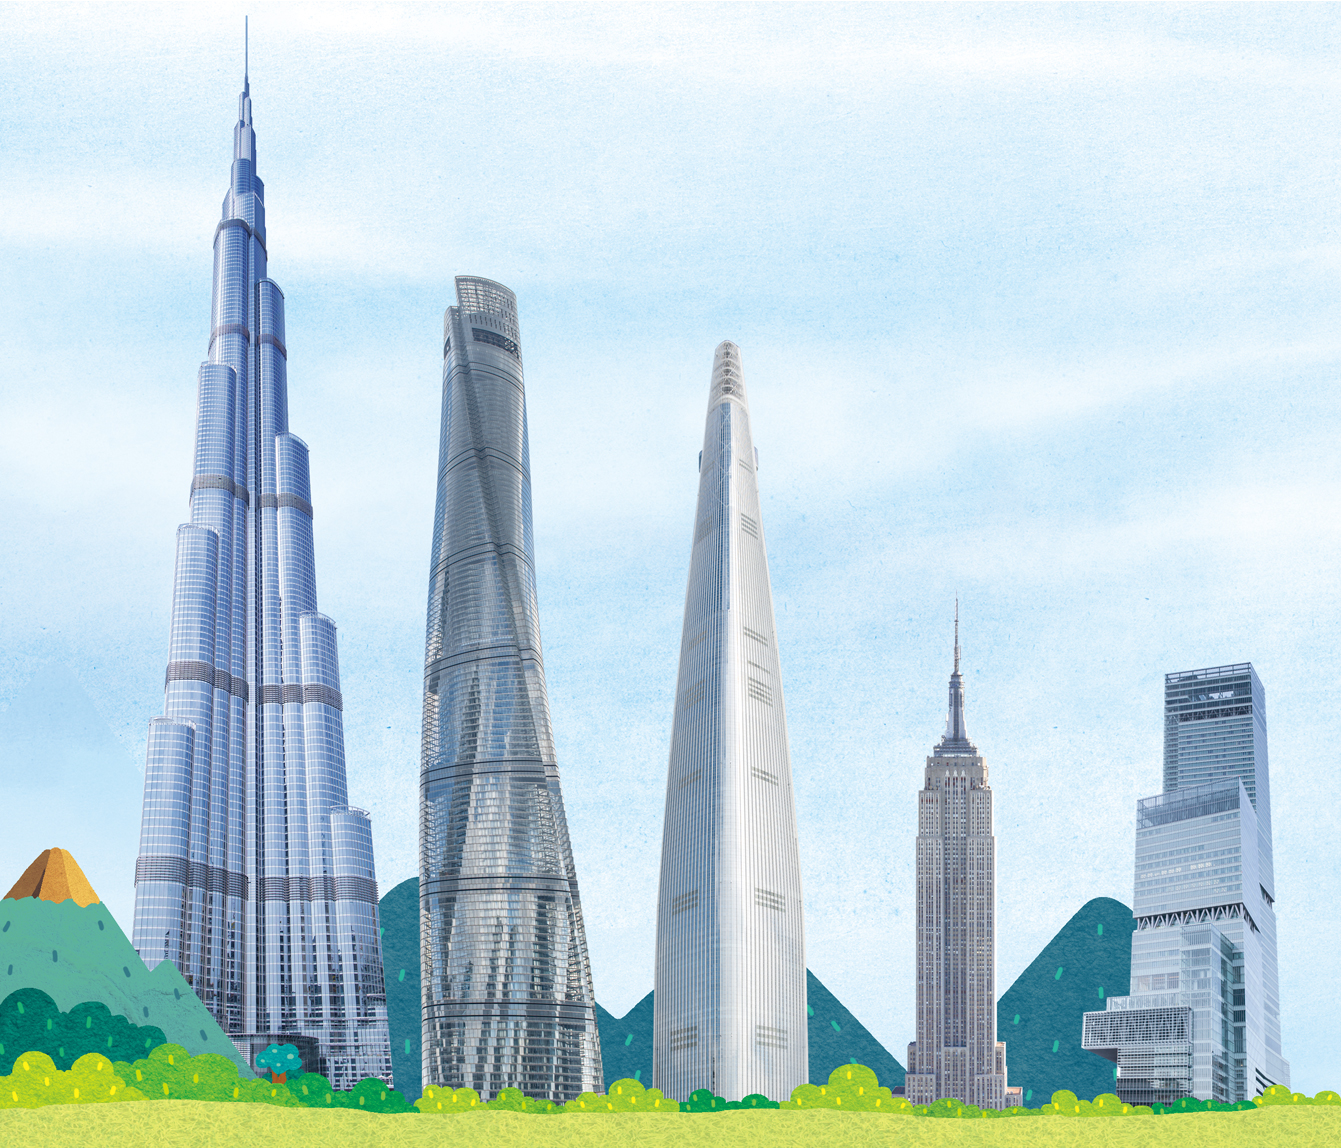
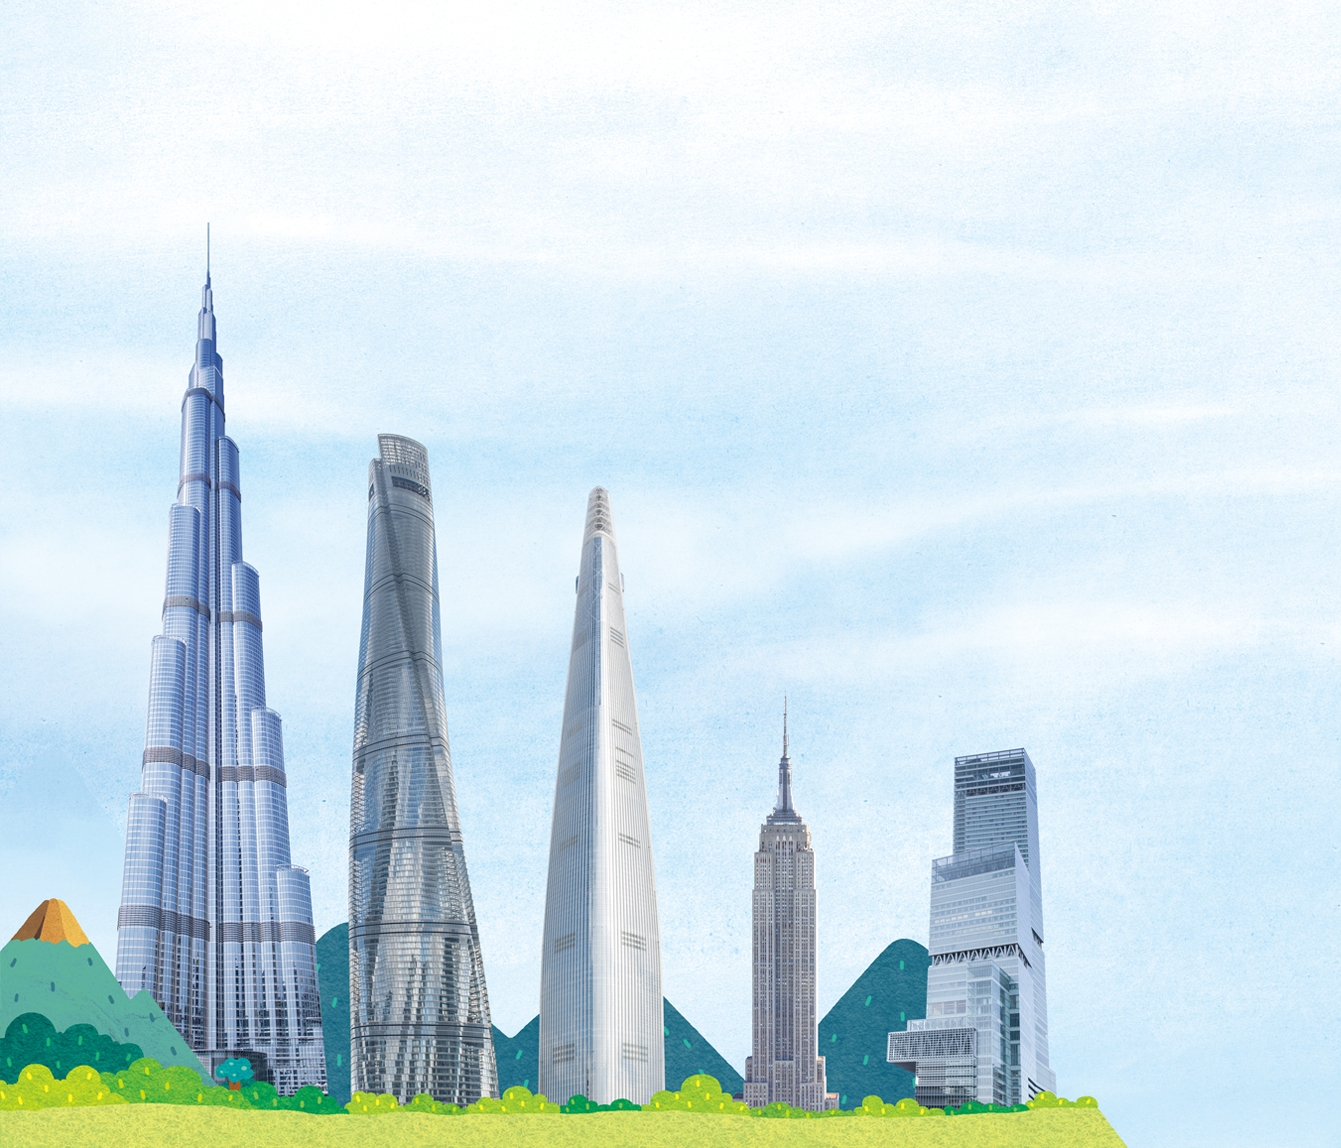
이미지 수정

diff --git a/E-curri03-math-P_2022/31/suh_p_0301_01_0010/suh_p_0301_01_0010_203_1.html b/E-curri03-math-P_2022/31/suh_p_0301_01_0010/suh_p_0301_01_0010_203_1.html
@@ -113,7 +113,7 @@
 				<ul class="basicSlider_slides" data-slides="">
 					<li class="page_1">
 						<div class="img-wrap ">
-							<img src="./images/suh_p_0301_01_0010_201_1_1.png" alt="">
+							<img src="./images/suh_p_0301_01_0010_203_1/suh_p_0301_01_0010_203_1_1.jpg" alt="">
 							<div class="text n1">
 								부르즈 할리파<br>
 								아랍 에미리트<br>
@@ -192,7 +192,7 @@
 				<li class="whole pop_page_1" data-popup-page="1">
 					<div class="popup_contents">
 						<div class="img-wrap">
-							<img src="./images/suh_p_0301_01_0010_201_1_1.png" alt="">
+							<img src="./images/suh_p_0301_01_0010_203_1/suh_p_0301_01_0010_203_1_1.jpg" alt="">
 							<div class="text n1">
 								부르즈 할리파<br>
 								아랍 에미리트<br>

diff --git a/E-curri03-math-P_2022/31/suh_p_0301_01_0010/suh_p_0301_01_0010_201_1.html b/E-curri03-math-P_2022/31/suh_p_0301_01_0010/suh_p_0301_01_0010_201_1.html
@@ -79,7 +79,7 @@
                 <li class="whole pop_page_1" data-popup-page="1">
                     <div class="popup_contents">
                         <div class="img-wrap">
-                            <img src="./images/suh_p_0301_01_0010_201_1_1.png" alt="">
+                            <img src="./images/suh_p_0301_01_0010_203_1/suh_p_0301_01_0010_203_1_1.jpg" alt="">
                             <div class="text n1">
                                 부르즈 할리파<br>
                                 아랍 에미리트<br>

diff --git a/E-curri03-math-P_2022/31/suh_p_0301_01_0010/suh_p_0301_01_0010_202_1.html b/E-curri03-math-P_2022/31/suh_p_0301_01_0010/suh_p_0301_01_0010_202_1.html
@@ -220,7 +220,7 @@
             <li class="whole pop_page_2" data-popup-page="2">
                 <div class="popup_contents">
                     <div class="img-wrap">
-                        <img src="./images/suh_p_0301_01_0010_201_1_1.png" alt="">
+                        <img src="./images/suh_p_0301_01_0010_203_1/suh_p_0301_01_0010_203_1_1.jpg" alt="">
                         <div class="text n1">
                             부르즈 할리파<br>
                             아랍 에미리트<br>
